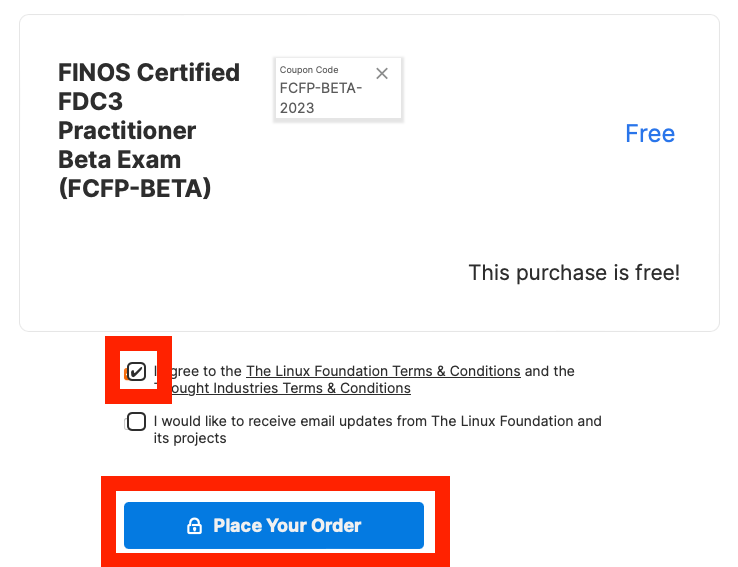
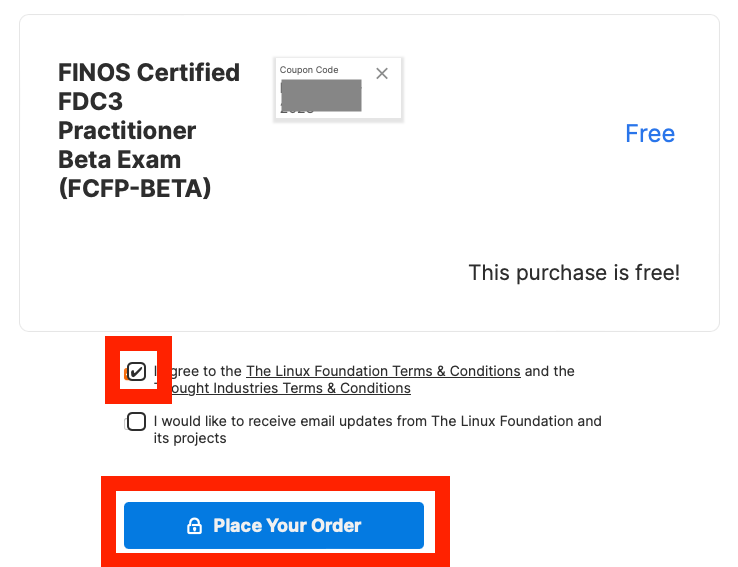
Hiding coupon

Changed region(s): [[0.374, 0.1199, 0.4986, 0.2099]]

diff --git a/docs/guides/certification-instructions.md b/docs/guides/certification-instructions.md
@@ -36,7 +36,7 @@ If you **complete** the exam, you'll receive some **FINOS swag** (a t-shirt) and
       <img src="/certification/2-coupon.png" alt="Image of slide number 2" />
     </div>
     <div className="slide-notes">
-      <p>Next use the coupon code <strong>FCFP-BETA-2023</strong> in the box to reduce the price to zero.</p>
+      <p>Next use the coupon code <strong>from the email</strong> in the box to reduce the price to zero.</p>
     </div>
   </div>
   <div className="slide slide--bordered">

diff --git a/website/versioned_docs/version-2.1/guides/certification-instructions.md b/website/versioned_docs/version-2.1/guides/certification-instructions.md
@@ -36,7 +36,7 @@ If you **complete** the exam, you'll receive some **FINOS swag** (a t-shirt) and
       <img src="/certification/2-coupon.png" alt="Image of slide number 2" />
     </div>
     <div className="slide-notes">
-      <p>Next use the coupon code <strong>FCFP-BETA-2023</strong> in the box to reduce the price to zero.</p>
+      <p>Next use the coupon code <strong>from the email</strong> in the box to reduce the price to zero.</p>
     </div>
   </div>
   <div className="slide slide--bordered">